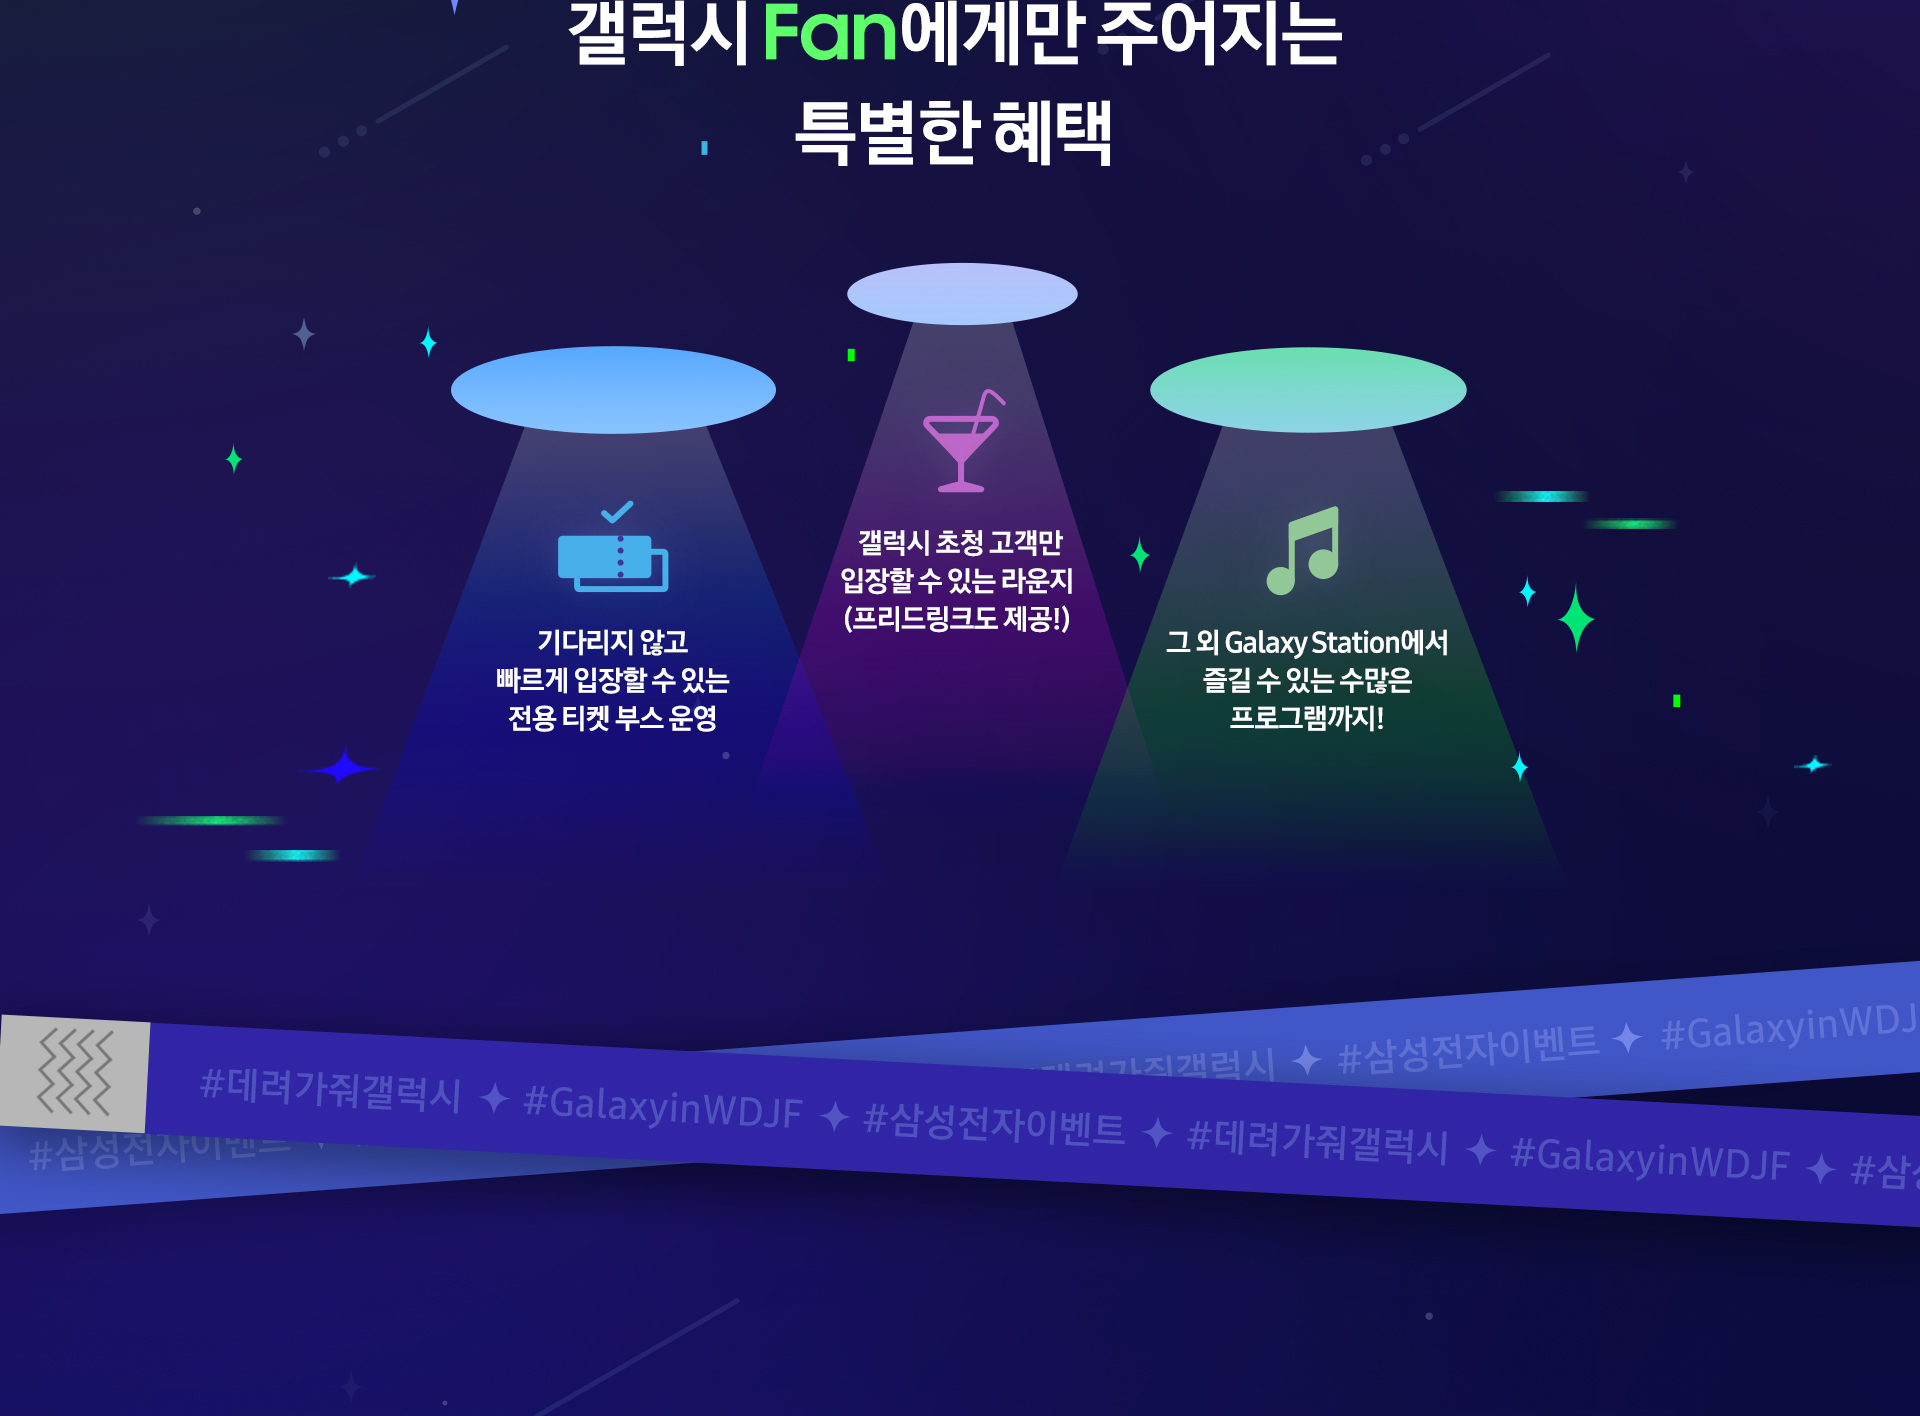
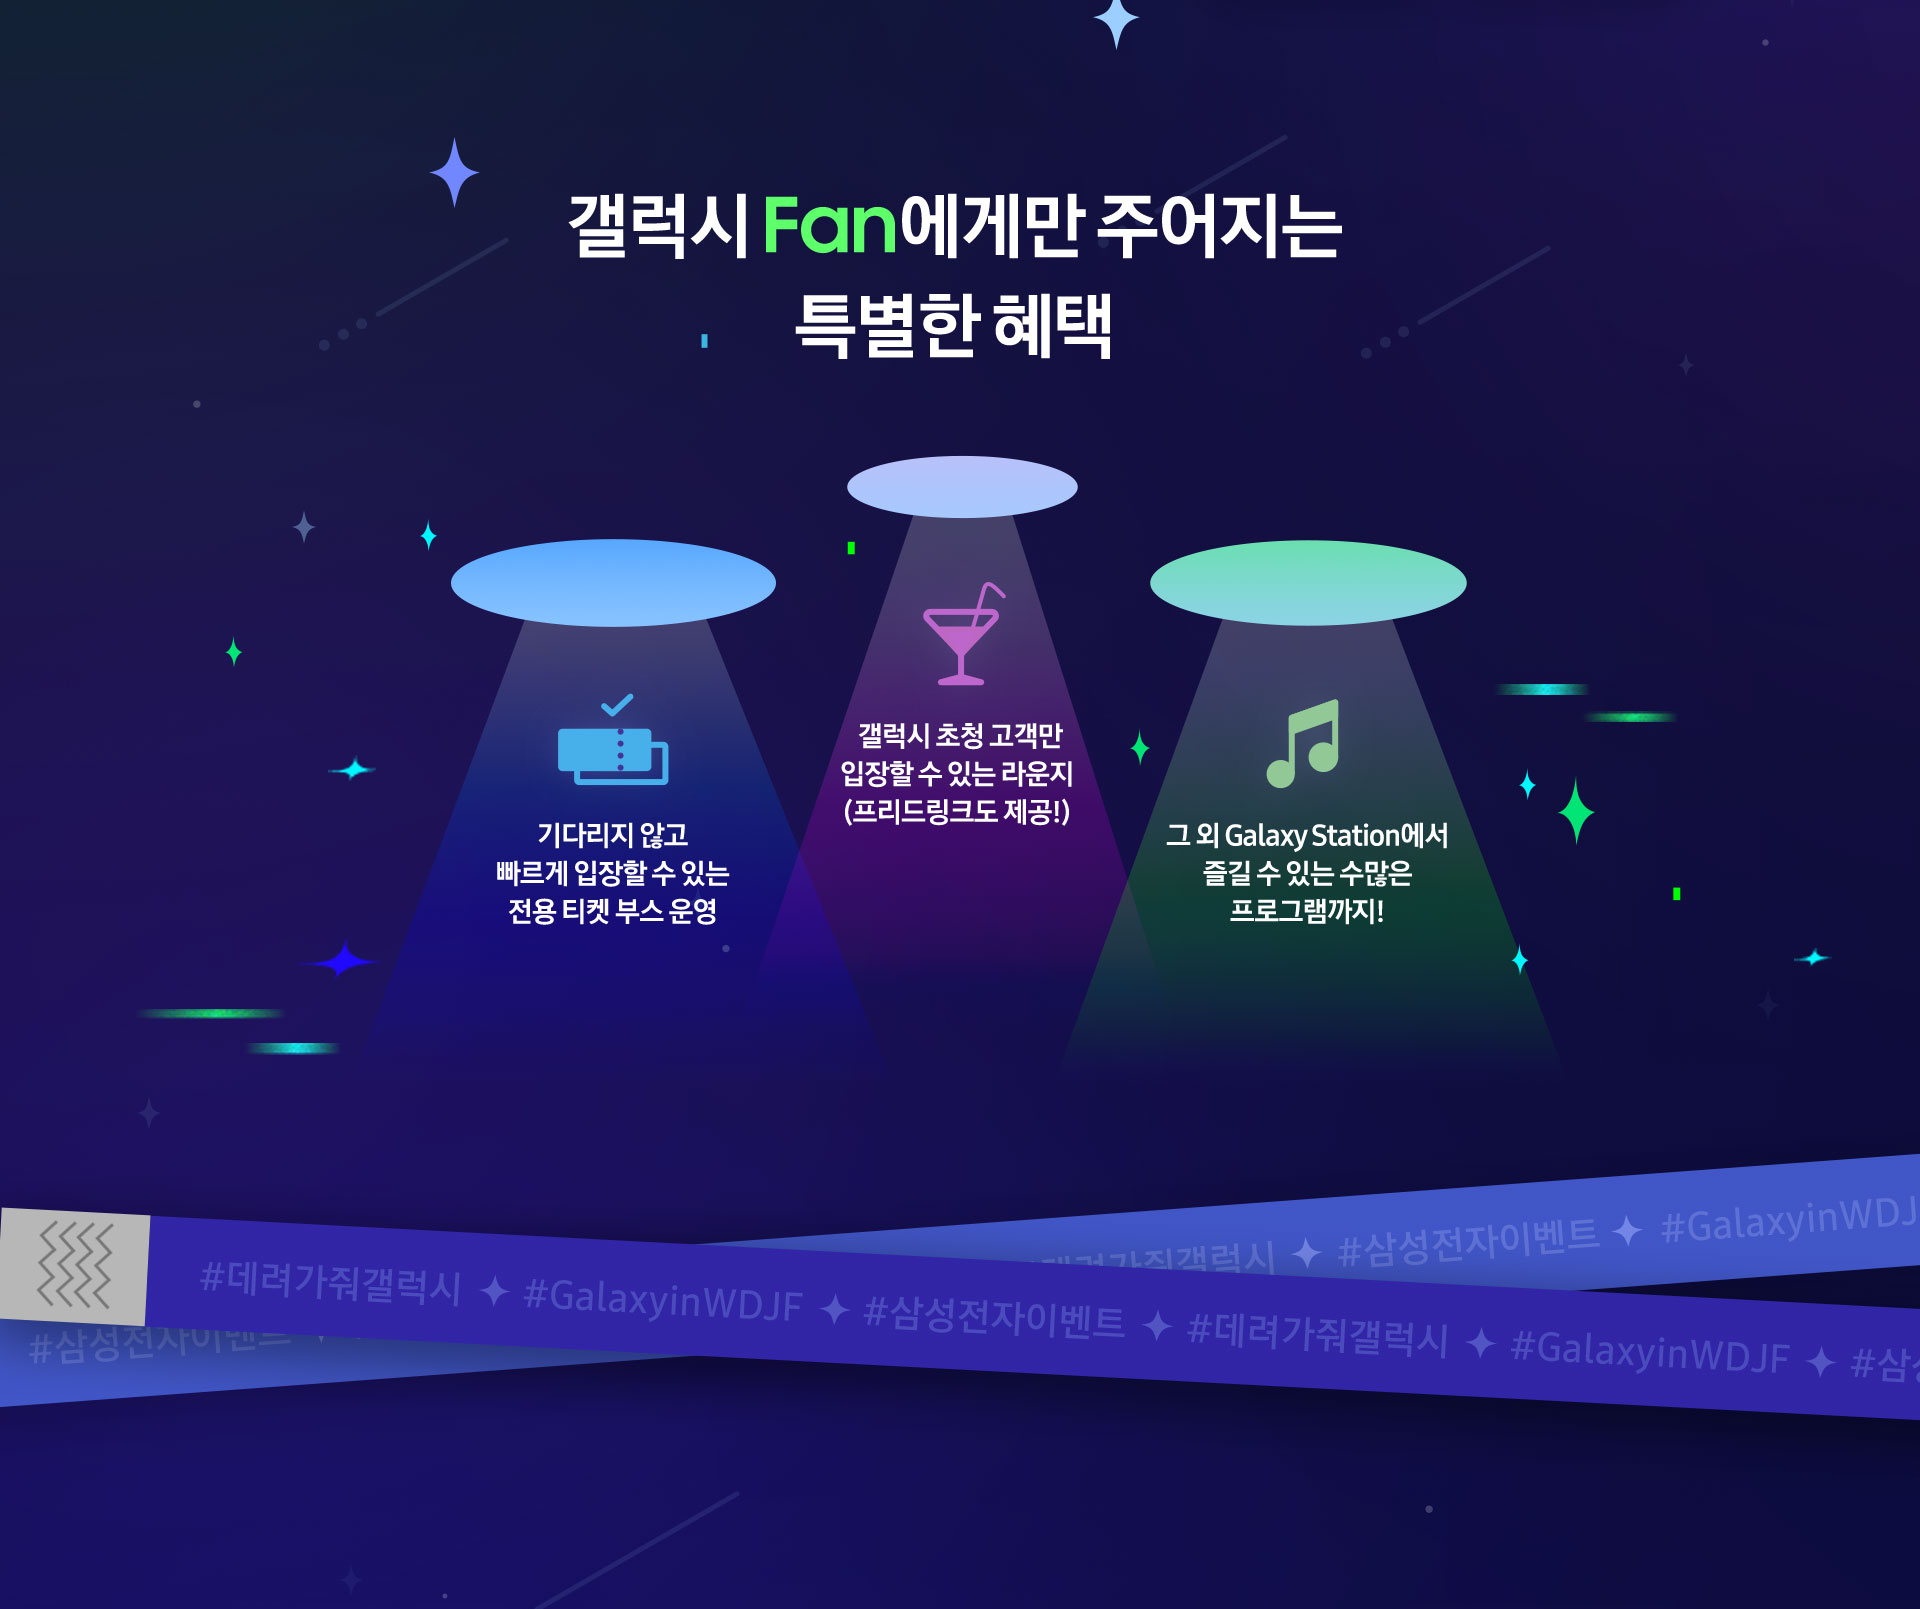
update pc 버전
디테일한 디자인 요소만 수정하면 완료!

diff --git a/public/styles/app.css b/public/styles/app.css
@@ -35,39 +35,33 @@ caption, legend { visibility: hidden; overflow: hidden; font-size: 0; line-heigh
 
 body { -webkit-user-drag: auto; }
 
-.promoWrap.pc { max-width: 1920px; min-width: 1920px; width: 100%; margin: 0 auto; }
+.promoWrap.pc { max-width: 1920px; margin: 0 auto; }
 
 .promoWrap.pc section { position: relative; }
 
-.promoWrap.pc section.keyVisual { width: 100%; height: 1279px; background: url(../images/pc_keyVisual.jpg) no-repeat 0 0; background-size: 100% 1279px; }
+.promoWrap.pc section.keyVisual .btnMore { position: absolute; right: 7.5%; bottom: 33.62%; width: 12.18%; height: 7%; font-size: 0; line-height: 0; outline: 1px solid red; }
 
-.promoWrap.pc section.keyVisual .btnMore { position: absolute; right: 144px; bottom: 430px; width: 234px; height: 90px; font-size: 0; line-height: 0; }
+.promoWrap.pc section.contVideo { background-color: #fff; }
 
-.promoWrap.pc section.contVideo { width: 100%; height: 1577px; background: url(../images/pc_contents_1.jpg) no-repeat 100% 100%; background-size: 100% 1577px; }
-
-.promoWrap.pc section.contVideo .swiperArea { width: 1435px; margin: 0 auto; padding-top: 417px; }
+.promoWrap.pc section.contVideo .swiperArea { width: 100%; margin: 0 auto; position: relative; }
 
 .promoWrap.pc section.contVideo .swiper { width: 100%; height: 100%; }
 
-.promoWrap.pc section.contVideo .swiper-slide { text-align: center; font-size: 18px; background: #fff; display: flex; justify-content: center; align-items: center; }
+.promoWrap.pc section.contVideo .swiper .swiper-slide { text-align: center; font-size: 18px; background: #fff; display: flex; justify-content: center; align-items: center; background-size: cover; background-position: center; }
 
-.promoWrap.pc section.contVideo .swiper-slide img { display: block; width: 100%; height: 100%; -o-object-fit: cover; object-fit: cover; }
+.promoWrap.pc section.contVideo .swiper .swiper-slide img { display: block; width: 100%; height: 100%; -o-object-fit: cover; object-fit: cover; }
 
-.promoWrap.pc section.contVideo .swiper { width: 100%; height: 300px; margin-left: auto; margin-right: auto; }
-
-.promoWrap.pc section.contVideo .swiper-slide { background-size: cover; background-position: center; }
-
-.promoWrap.pc section.contVideo .mySwiper2 { height: 805px; width: 100%; }
+.promoWrap.pc section.contVideo .mySwiper2 { position: absolute; top: 0; left: 50%; transform: translateX(-50%); width: 75.16%; }
 
 .promoWrap.pc section.contVideo .mySwiper2 .swiper-wrapper .swiper-slide { position: relative; width: 100%; height: 0; padding-bottom: 56.25%; }
 
 .promoWrap.pc section.contVideo .mySwiper2 .swiper-wrapper .swiper-slide iframe { position: absolute; width: 100%; height: 100%; top: 0; left: 0; }
 
-.promoWrap.pc section.contVideo .thumbsSwiper { height: 20%; box-sizing: border-box; padding: 32px 0; margin-left: 6px; }
+.promoWrap.pc section.contVideo .thumbsSwiper { position: absolute; bottom: 0; left: 50%; transform: translateX(-50%); height: 13.36%; box-sizing: border-box; margin-left: -12.4%; }
 
 .promoWrap.pc section.contVideo .thumbsSwiper .swiper-wrapper { justify-content: flex-end; }
 
-.promoWrap.pc section.contVideo .thumbsSwiper .swiper-wrapper .swiper-slide { width: 230px !important; height: 130px; opacity: 0.7; margin-left: 20px; border: 3px solid #c6c7e4; position: relative; }
+.promoWrap.pc section.contVideo .thumbsSwiper .swiper-wrapper .swiper-slide { width: 11.97% !important; height: 100%; opacity: 0.7; margin-left: 1%; border: 3px solid #c6c7e4; position: relative; }
 
 .promoWrap.pc section.contVideo .thumbsSwiper .swiper-wrapper .swiper-slide::before { position: absolute; top: 50%; left: 50%; z-index: 999; transform: translate(-50%, -50%); background: url(../images/icon_thumbs_play.png) no-repeat 0 0; background-size: 36px 40px; width: 36px; height: 40px; display: block; content: ''; }
 
@@ -81,17 +75,11 @@ body { -webkit-user-drag: auto; }
 
 .promoWrap.pc section.contVideo .thumbsSwiper .swiper-wrapper .swiper-slide img { display: block; width: 100%; height: 100%; -o-object-fit: cover; object-fit: cover; }
 
-.promoWrap.pc section.contBenefit { width: 100%; height: 1416px; background: url(../images/pc_contents_2.jpg) no-repeat 100% 100%; background-size: 100% 1416px; }
+.promoWrap.pc section.contTicket .clipArea .btnClip { position: absolute; right: 12.5%; bottom: 42.43%; display: block; width: 19.47%; height: 6.14%; font-size: 0; line-height: 0; outline: 1px solid red; }
 
-.promoWrap.pc section.contTicket { width: 100%; height: 1546px; background: url(../images/pc_contents_3.jpg) no-repeat 100% 100%; background-size: 100% 1546px; }
+.promoWrap.pc section.contTicket .btnArea { position: absolute; width: 41.14%; height: 6.59%; left: 50%; bottom: 12.93%; transform: translateX(-50%); display: flex; justify-content: space-between; }
 
-.promoWrap.pc section.contTicket .clipArea .btnClip { position: absolute; right: 240px; bottom: 656px; display: block; width: 374px; height: 95px; font-size: 0; line-height: 0; outline: 1px solid red; }
-
-.promoWrap.pc section.contTicket .btnArea { position: absolute; width: 790px; height: 102px; left: 50%; bottom: 200px; transform: translateX(-50%); display: flex; justify-content: space-between; }
-
-.promoWrap.pc section.contTicket .btnArea a { display: block; height: 102px; width: calc(50% - 13px); font-size: 0; line-height: 0; outline: 1px solid red; }
-
-.promoWrap.pc section.footerLegal { width: 100%; height: 682px; background: url(../images/pc_footer.jpg) no-repeat 100% 100%; background-size: 100% 682px; }
+.promoWrap.pc section.contTicket .btnArea a { display: block; height: 100%; width: calc(50% - 1.7%); font-size: 0; line-height: 0; outline: 1px solid red; }
 
 .promoWrap.mb section { position: relative; }
 

diff --git a/styles/app.scss b/styles/app.scss
@@ -34,74 +34,69 @@ body {
 
 .promoWrap.pc {
   max-width: 1920px;
-  min-width: 1920px;
-  width: 100%;
+  // min-width: 1920px;
+  // width: 100%;
   margin: 0 auto;
   section{
     position: relative;
     &.keyVisual {
-      width: 100%;
-      height: 1279px;
-      background: url(../images/pc_keyVisual.jpg) no-repeat 0 0;
-      background-size: 100% 1279px;
+      // width: 100%;
+      // height: 1279px;
+      // background: url(../images/pc_keyVisual.jpg) no-repeat 0 0;
+      // background-size: 100% 1279px;
       .btnMore{
         position: absolute;
-        right: 144px;
-        bottom: 430px;
-        width: 234px;
-        height: 90px;
+        right: 7.5%;
+        bottom: 33.62%;
+        width: 12.18%;
+        height: 7%;
         font-size: 0;
         line-height: 0;
+        outline: 1px solid red;
       }
     }//.keyVisual
     &.contVideo {
-      width: 100%;
-      height: 1577px;
-      background: url(../images/pc_contents_1.jpg) no-repeat 100% 100%;
-      background-size: 100% 1577px;
+      // width: 100%;
+      // height: 1166px;
+      // background: url(../images/pc_contents_1_2.jpg) no-repeat 0 0;
+      // background-size: 100% 100%;
+      background-color: #fff;
 
       .swiperArea{
-        width: 1435px;
+        // width: 1435px;
+        width: 100%;
         margin: 0 auto;
-        padding-top: 417px;
+        position: relative;
       }
 
       .swiper {
         width: 100%;
         height: 100%;
-      }
-
-      .swiper-slide {
-        text-align: center;
-        font-size: 18px;
-        background: #fff;
-        display: flex;
-        justify-content: center;
-        align-items: center;
-      }
-
-      .swiper-slide img {
-        display: block;
-        width: 100%;
-        height: 100%;
-        object-fit: cover;
-      }
-
-      .swiper {
-        width: 100%;
-        height: 300px;
-        margin-left: auto;
-        margin-right: auto;
-      }
-
-      .swiper-slide {
-        background-size: cover;
-        background-position: center;
+        .swiper-slide {
+          text-align: center;
+          font-size: 18px;
+          background: #fff;
+          display: flex;
+          justify-content: center;
+          align-items: center;
+          background-size: cover;
+          background-position: center;
+          img {
+            display: block;
+            width: 100%;
+            height: 100%;
+            object-fit: cover;
+          }
+        }
       }
 
       .mySwiper2 {
-        height: 805px;
-        width: 100%;
+        position: absolute;
+        top: 0;
+        left: 50%;
+        transform: translateX(-50%);
+        width: 75.16%;
+        
         .swiper-wrapper{
           .swiper-slide{
             position: relative;
@@ -120,17 +115,20 @@ body {
       }
 
       .thumbsSwiper {
-        height: 20%;
+        position: absolute;
+        bottom: 0;
+        left: 50%;
+        transform: translateX(-50%);
+        height: 13.36%; //calc(130/973 * 100)
         box-sizing: border-box;
-        padding: 32px 0;
-        margin-left: 6px;
+        margin-left: -12.4%;
         .swiper-wrapper{
           justify-content: flex-end;
           .swiper-slide {
-            width: 230px !important;
-            height: 130px;
+            width: 11.97% !important;
+            height: 100%; 
             opacity: 0.7;
-            margin-left: 20px;
+            margin-left: 1%;
             border: 3px solid #c6c7e4;
             position: relative;
             &::before{
@@ -182,24 +180,24 @@ body {
 
     }//.contVideo
     &.contBenefit{
-      width: 100%;
-      height: 1416px;
-      background: url(../images/pc_contents_2.jpg) no-repeat 100% 100%;
-      background-size: 100% 1416px;
+      // width: 100%;
+      // height: 1609px;
+      // background: url(../images/pc_contents_2.jpg) no-repeat 100% 100%;
+      // background-size: 100% 1609px;
     }//.contBenefit
     &.contTicket{
-      width: 100%;
-      height: 1546px;
-      background: url(../images/pc_contents_3.jpg) no-repeat 100% 100%;
-      background-size: 100% 1546px;
+      // width: 100%;
+      // height: 1546px;
+      // background: url(../images/pc_contents_3.jpg) no-repeat 100% 100%;
+      // background-size: 100% 1546px;
       .clipArea{
         .btnClip{
           position: absolute;
-          right: 240px;
-          bottom: 656px;
+          right: 12.5%;
+          bottom: 42.43%;
           display: block;
-          width: 374px;
-          height: 95px;
+          width: 19.47%;
+          height: 6.14%;
           font-size: 0;
           line-height: 0;
           outline: 1px solid red;
@@ -207,17 +205,17 @@ body {
       }
       .btnArea{
         position: absolute;
-        width: 790px;
-        height: 102px;
+        width: 41.14%;
+        height: 6.59%;
         left: 50%;
-        bottom: 200px;
+        bottom: 12.93%;
         transform: translateX(-50%);
         display: flex;
         justify-content: space-between;
         a{
           display: block;
-          height: 102px;
-          width: calc(50% - 13px);
+          height: 100%;
+          width: calc(50% - 1.7%);
           font-size: 0;
           line-height: 0;
           outline: 1px solid red;
@@ -225,10 +223,10 @@ body {
       }
     }//.contTicket
     &.footerLegal{
-      width: 100%;
-      height: 682px;
-      background: url(../images/pc_footer.jpg) no-repeat 100% 100%;
-      background-size: 100% 682px;
+      // width: 100%;
+      // height: 682px;
+      // background: url(../images/pc_footer.jpg) no-repeat 100% 100%;
+      // background-size: 100% 682px;
     }//.footerLegal
   }
  }//.promoWrap.pc

diff --git a/index.html b/index.html
@@ -15,32 +15,11 @@
     <link rel="stylesheet" href="public/fonts/font.css">
     <link rel="stylesheet" href="https://cdn.jsdelivr.net/npm/swiper@9/swiper-bundle.min.css"/>
     <link rel="stylesheet" href="./public/styles/app.css">
-    <style>
-      /* .swiper {
-        width: 100%;
-        height: 500px;
-      }
-      .iframeArea{
-        position: relative;
-        width: 100%;
-        height: 0;
-        padding-bottom: 56.25%;
-      }
-      .iframeArea iframe{
-        position: absolute;
-        top: 0;
-        left: 0;
-        bottom: 0;
-        right: 0;
-        width: 100%;
-        height: 100%;
-      } */
-    </style>
 </head>
 <body>
   <div class="promoWrap pc">
     <section class="keyVisual">
-      <!-- <img src="./public/images/pc_keyVisual.jpg" alt=""> -->
+      <img src="./public/images/pc_keyVisual.jpg" alt="">
       <div class="sr-only">
         <h1>Galaxy in WDJF</h1>
         <h2>갤럭시, 월드 디제이 페스티벌과 만났다!</h2>
@@ -53,7 +32,10 @@
       <a class="btnMore" href="#" target="_blank">월드 디제이 페스티벌 자세히 보기</a>
     </section>
     <section class="contVideo">
+      <img src="./public/images/pc_contents_1_1.jpg" alt="">
+      
       <div class="swiperArea">
+        <img src="./public/images/pc_contents_1_2.jpg" alt="">
       <!-- mySwiper2 -->
         <div class="swiper mySwiper2">
           <div class="swiper-wrapper">
@@ -64,8 +46,8 @@
               <iframe width="560" height="315" src="https://www.youtube.com/embed/v_F9caX2hHg" title="YouTube video player" frameborder="0" allow="accelerometer; autoplay; clipboard-write; encrypted-media; gyroscope; picture-in-picture; web-share" allowfullscreen></iframe>
             </div>
           </div>
-          <div class="swiper-button-next"></div>
-          <div class="swiper-button-prev"></div>
+          <!-- <div class="swiper-button-next"></div>
+          <div class="swiper-button-prev"></div> -->
         </div>
         <!-- //mySwiper2 -->
         <!-- thumbsSwiper -->
@@ -93,7 +75,7 @@
     </section>
     <!-- 영상 레이아웃 변경 예상 -->
     <section class="contBenefit">
-      <!-- <img src="./public/images/pc_contents_2.jpg" alt=""> -->
+      <img src="./public/images/pc_contents_2.jpg" alt="">
       <div class="sr-only">
         <h2>갤럭시 Fan에게만 주어지는 특별한 혜택</h2>
         <ul>
@@ -104,7 +86,7 @@
       </div>
     </section>
     <section class="contTicket">
-      <!-- <img src="./public/images/pc_contents_3.jpg" alt=""> -->
+      <img src="./public/images/pc_contents_3.jpg" alt="">
       <div class="sr-only">
         <h2>티켓 이벤트</h2>
         <ul>
@@ -133,7 +115,7 @@
       </div>
     </section>
     <section class="footerLegal">
-      <!-- <img src="./public/images/pc_footer.jpg" alt=""> -->
+      <img src="./public/images/pc_footer.jpg" alt="">
       <div class="sr-only">
         <h2>꼭 확인하세요</h2>
         <ul>

diff --git a/public/js/app.js b/public/js/app.js
@@ -8,10 +8,10 @@
     const swiper2 = new Swiper(".mySwiper2", {
         effect: 'fade',
         spaceBetween: 10,
-        navigation: {
-            nextEl: ".swiper-button-next",
-            prevEl: ".swiper-button-prev",
-        },
+        // navigation: {
+        //     nextEl: ".swiper-button-next",
+        //     prevEl: ".swiper-button-prev",
+        // },
         thumbs: {
             swiper: swiper,
         },
